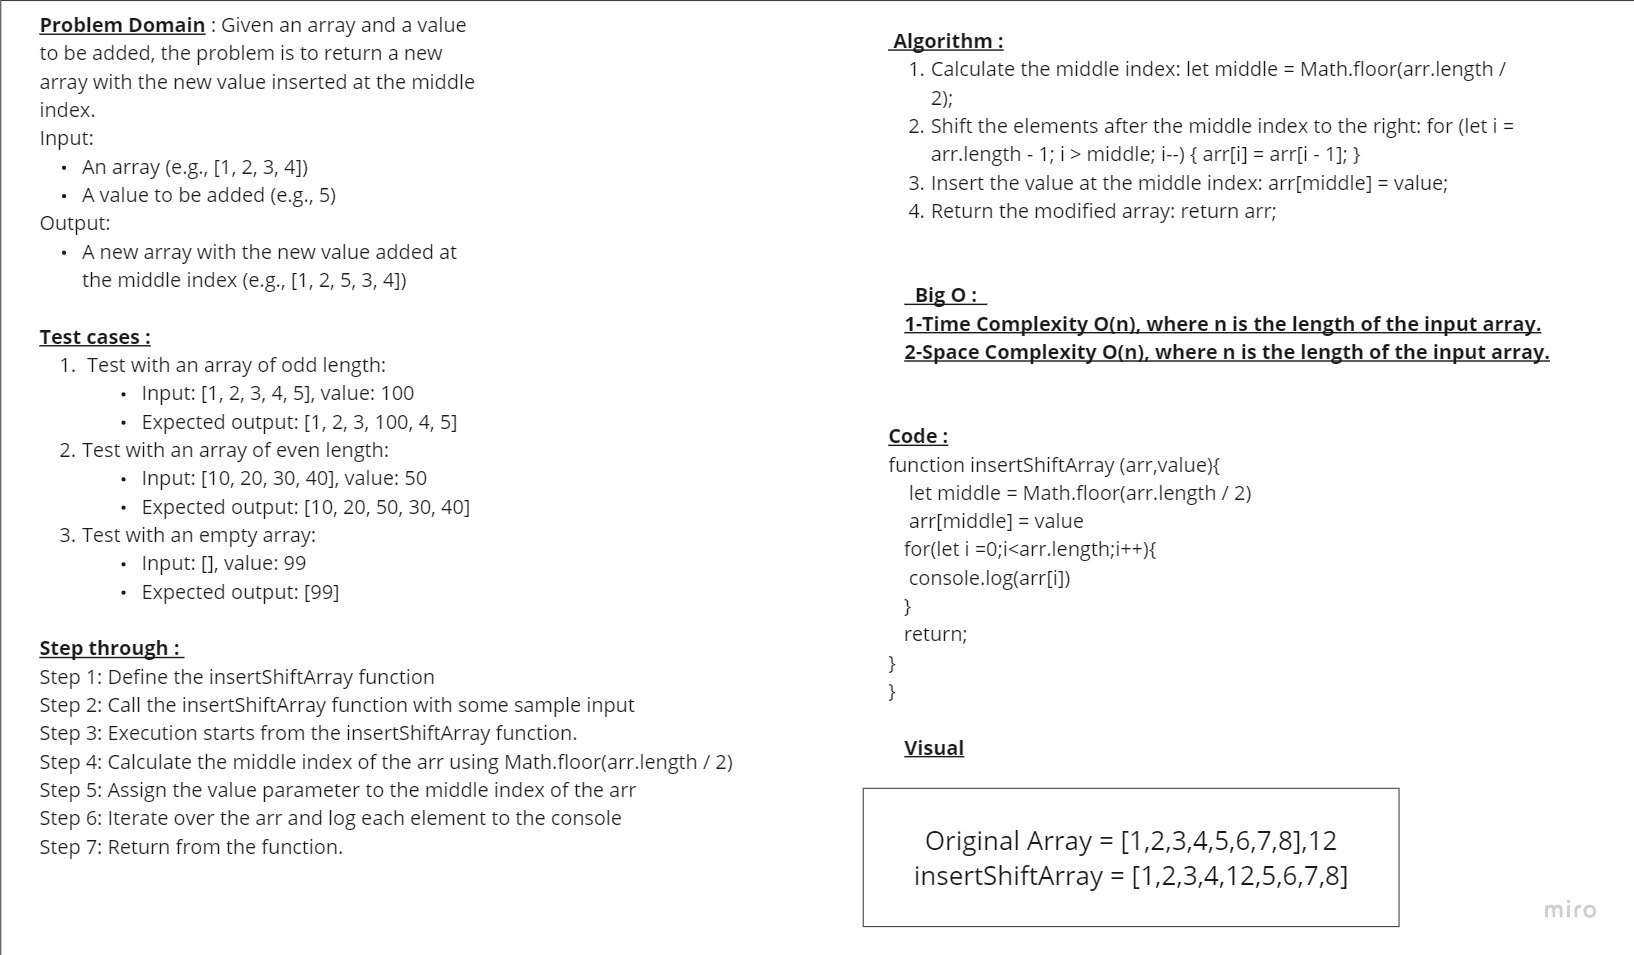
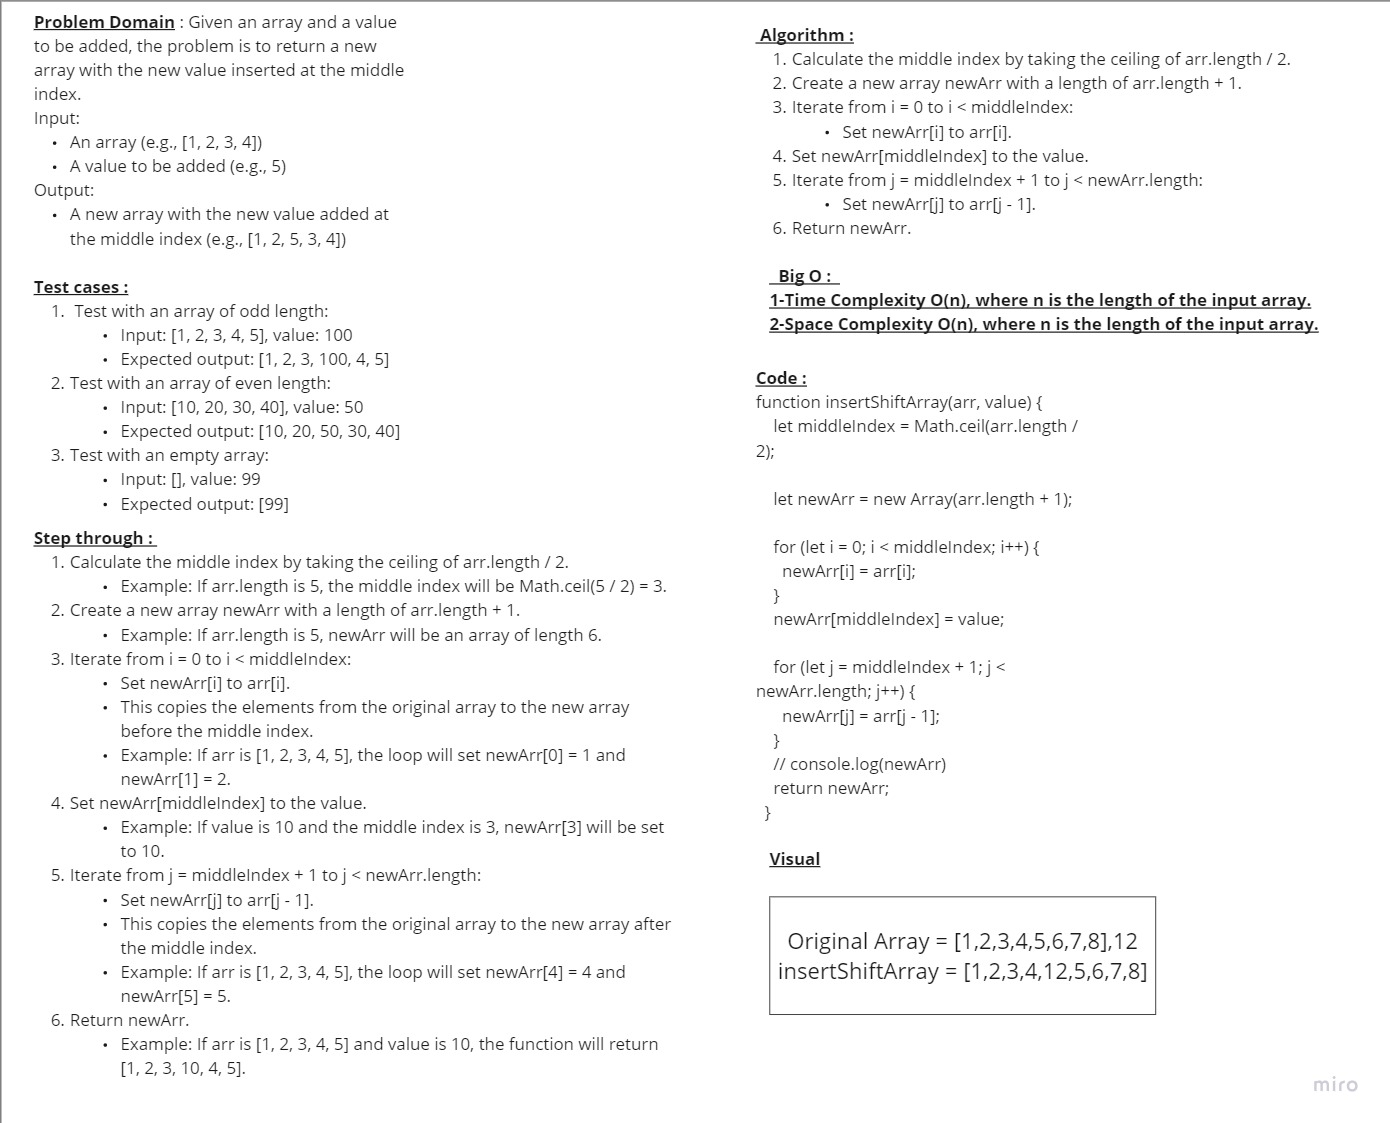
updated

diff --git a/javascript/insert-Shift-Array/insert-Shift-Array.js b/javascript/insert-Shift-Array/insert-Shift-Array.js
@@ -1,11 +1,20 @@
 'use strict'
-function insertShiftArray (arr,value){
-    let middle = Math.floor(arr.length / 2)
-    arr[middle] = value
-   for(let i =0;i<arr.length;i++){
-    // console.log(arr[i])
-   }
-   return;
+function insertShiftArray(arr, value) {
+
+    let middleIndex = Math.ceil(arr.length / 2);
+
+    let newArr = new Array(arr.length + 1);
+
+    for (let i = 0; i < middleIndex; i++) {
+        newArr[i] = arr[i];
+    }
+    newArr[middleIndex] = value;
+
+    for (let j = middleIndex + 1; j < newArr.length; j++) {
+        newArr[j] = arr[j - 1];
+    }
+    // console.log(newArr)
+    return newArr;
 }
 
 module.exports = {

diff --git a/javascript/insert-Shift-Array/README.md b/javascript/insert-Shift-Array/README.md
@@ -20,11 +20,21 @@ we need to consider the additional space used by the function as the input size 
 Variables: The function uses a few variables, such as middle to store the middle index. These variables have constant space requirements and do not depend on the input size. Therefore, their contribution to the space complexity is considered O(1).
 
 ## Solution
- function insertShiftArray (arr,value){
-    let middle = Math.floor(arr.length / 2)
-    arr[middle] = value
-   for(let i =0;i<arr.length;i++){
-   }
-   return;
-} 
+function insertShiftArray(arr, value) {
+
+    let middleIndex = Math.ceil(arr.length / 2);
+  
+    let newArr = new Array(arr.length + 1);
+  
+    for (let i = 0; i < middleIndex; i++) {
+      newArr[i] = arr[i];
+    }
+    newArr[middleIndex] = value;
+  
+    for (let j = middleIndex + 1; j < newArr.length; j++) {
+      newArr[j] = arr[j - 1];
+    }
+    // console.log(newArr)
+    return newArr;
+  }
 
